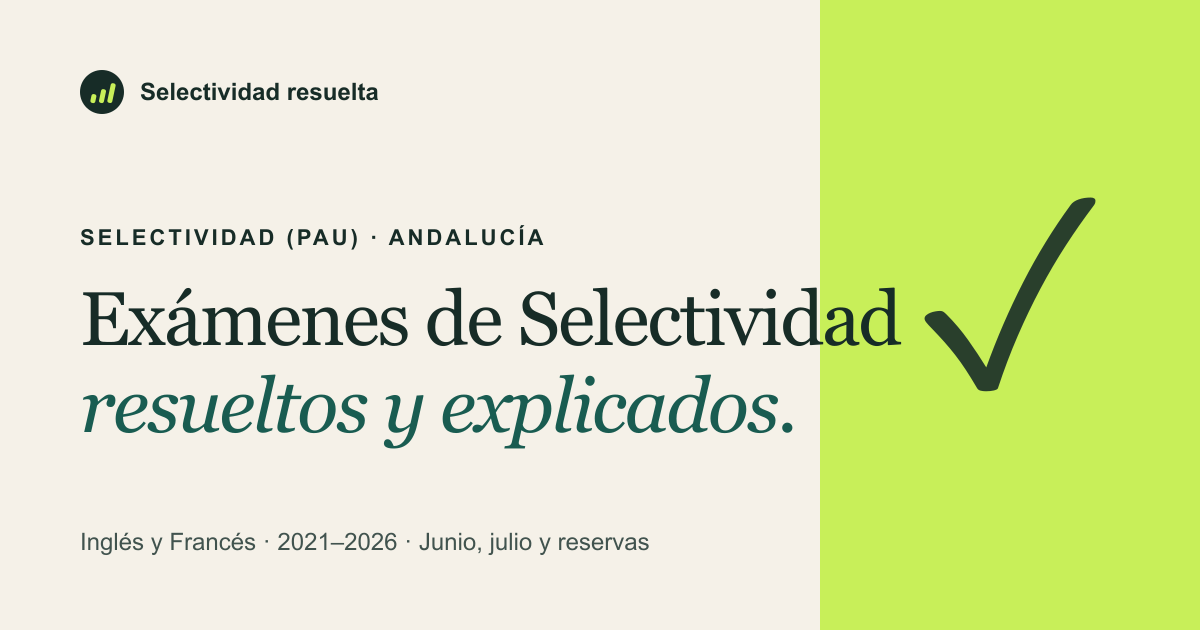
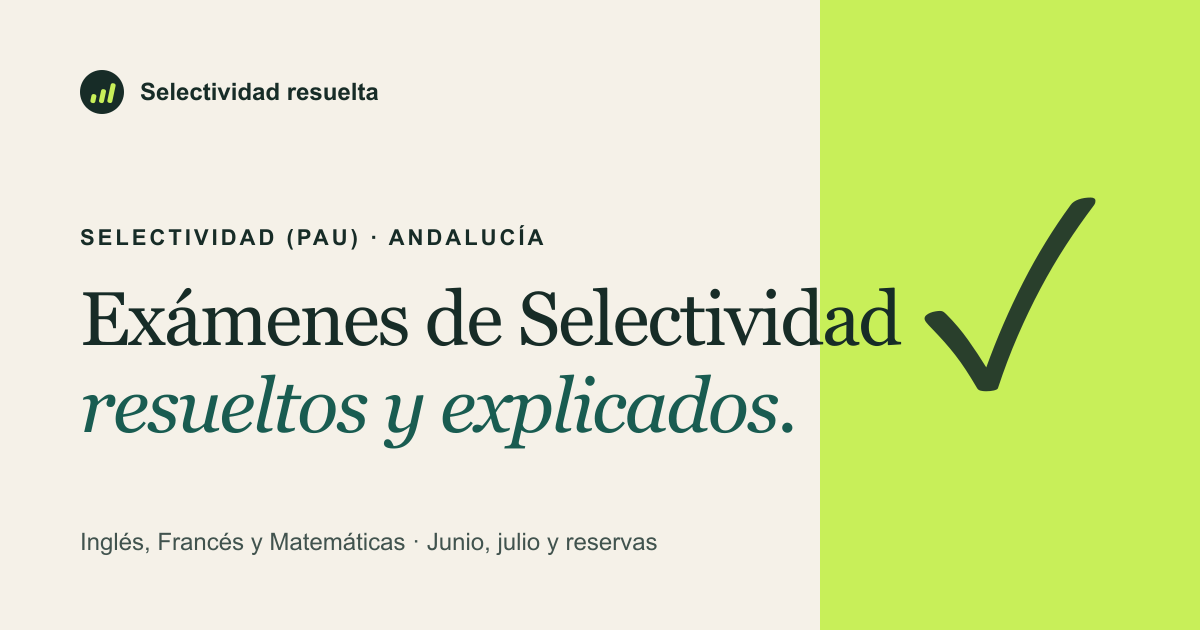
Publica Matemáticas aplicadas en la web
- Activa la asignatura (indexable, desde 2024) con su texto de
  presentación y un nombre corto, "Matemáticas CCSS", para los title y
  las descripciones.
- Portada: tarjeta 03, textos, pregunta frecuente y últimos exámenes y
  archivo con todas las asignaturas; enlace en el menú.
- Las plantillas eligen un title o una descripción más corta cuando no
  caben, y la página de cada asignatura empieza en su primer curso.
- Imagen OG de Matemáticas y pie de la de portada.
- Estilos de las soluciones (fórmulas, tablas, figuras, bloques) y
  arreglos del pie y de la firma en las páginas de tema.
- "Sobre el autor" incluye Matemáticas.

Changed region(s): [[0.1233, 0.8444, 0.555, 0.8746]]

diff --git a/src/styles/global.css b/src/styles/global.css
@@ -180,6 +180,13 @@
   font-weight: 600;
 }
 
+/* Con cinco enlaces, el menú se aprieta antes de pasar al menú móvil. */
+@media (max-width: 1100px) {
+  .desktop-nav {
+    gap: 20px;
+  }
+}
+
 .desktop-nav a {
   position: relative;
 }
@@ -588,7 +595,7 @@
 
 .subject-grid {
   display: grid;
-  grid-template-columns: repeat(2, minmax(0, 1fr));
+  grid-template-columns: repeat(3, minmax(0, 1fr));
   gap: 18px;
 }
 
@@ -998,10 +1005,12 @@ footer {
 }
 
 .footer-inner {
-  min-height: 120px;
   display: grid;
-  grid-template-columns: 1fr auto 1fr;
+  grid-template-columns: auto 1fr auto;
+  /* Fila del logo, la navegación y el copyright, centrada en su propia altura; debajo, la legal. */
+  grid-template-rows: minmax(110px, auto) auto;
   align-items: center;
+  column-gap: 32px;
 }
 
 .footer-inner .logo-mark {
@@ -1016,6 +1025,8 @@ footer {
 
 .footer-inner > p:last-of-type {
   justify-self: end;
+  max-width: 190px;
+  text-align: right;
 }
 
 /* Enlaces legales: una fila propia bajo el logo, la navegación y el copyright. */
@@ -1111,6 +1122,12 @@ footer {
 
   .subject-grid {
     grid-template-columns: repeat(2, minmax(0, 1fr));
+  }
+
+  /* Con un número impar de asignaturas, la última ocupa la fila entera. */
+  .subject-card:last-child:nth-child(odd) {
+    grid-column: 1 / -1;
+    min-height: 380px;
   }
 
   .method-grid,
@@ -1223,6 +1240,7 @@ footer {
 
   .footer-inner {
     grid-template-columns: 1fr;
+    grid-template-rows: none;
     gap: 20px;
     padding-block: 32px;
   }
@@ -1234,6 +1252,8 @@ footer {
 
   .footer-inner > p:last-of-type {
     justify-self: start;
+    max-width: none;
+    text-align: left;
   }
 
   .footer-legal {
@@ -1935,6 +1955,11 @@ footer {
   font-weight: 600;
 }
 
+/* Sin entradilla (temas sin intro), la firma va directamente bajo el título. */
+.exam-hero h1 + .exam-updated {
+  margin-top: 28px;
+}
+
 .exam-updated a {
   color: inherit;
   text-decoration: underline;
@@ -2351,6 +2376,38 @@ footer {
   content: "";
   display: table;
   clear: both;
+}
+
+/* Formato "matematicas": rótulo de cada ejercicio y apartados a), b)… sangrados. */
+.official-statement--matematicas .official-block {
+  margin: 30px 0 10px;
+}
+
+.official-statement--matematicas .official-block:first-child {
+  margin-top: 0;
+}
+
+/* Rótulo de bloque recuadrado y centrado (curso 2024-2025: BLOQUE A, B, C y D). */
+.official-statement--matematicas .math-bloque {
+  font-weight: 700;
+  text-align: center;
+}
+
+.official-statement--matematicas .math-bloque span {
+  padding: 0 4px;
+  border: 1px solid #111;
+}
+
+.official-statement--matematicas .math-bloque + .official-block {
+  margin-top: 8px;
+}
+
+.official-statement--matematicas .math-sub {
+  padding-left: 22px;
+}
+
+.official-statement--matematicas .math-sub-2 {
+  padding-left: 40px;
 }
 
 /* Cabecera con serifa (curso 2020-2021). */
@@ -2892,6 +2949,52 @@ footer {
   font-weight: 700;
   letter-spacing: 0.1em;
   text-transform: uppercase;
+}
+
+/* Las fórmulas largas de las soluciones se desplazan en horizontal en el móvil. */
+.official-statement .solution .katex-display {
+  margin: 10px 0;
+  overflow-x: auto;
+  overflow-y: hidden;
+  padding: 2px 0;
+}
+
+.official-statement .solution ul {
+  margin: 0 0 8px;
+  padding-left: 20px;
+  list-style: disc;
+}
+
+.official-statement .solution li + li {
+  margin-top: 2px;
+}
+
+.official-statement .solution table {
+  margin: 4px 0 10px;
+  border-collapse: collapse;
+  font-size: 14px;
+}
+
+.official-statement .solution th,
+.official-statement .solution td {
+  padding: 4px 12px;
+  border: 1px solid rgba(23, 44, 39, 0.2);
+  text-align: center;
+}
+
+.official-statement .solution th {
+  font-weight: 700;
+}
+
+.solution-figure {
+  max-width: 420px;
+  margin: 12px auto;
+}
+
+.solution-figure svg {
+  display: block;
+  width: 100%;
+  height: auto;
 }
 
 .official-statement .solution blockquote {

diff --git a/src/data/asignaturas.ts b/src/data/asignaturas.ts
@@ -15,6 +15,14 @@ export interface Asignatura {
   intro?: string
   // Qué incluye cada examen resuelto, para la meta descripción (ajustado a 140-160 caracteres).
   resuelto?: string
+  // Primer curso con exámenes, si la asignatura empieza después de primerAnio.
+  desde?: number
+  // Nombre para los title y las meta descripciones, si el nombre completo no cabe.
+  nombreCorto?: string
+}
+
+export function nombreSeo(asignatura: Asignatura) {
+  return asignatura.nombreCorto ?? asignatura.nombre
 }
 
 type DatosTema = string | Omit<Tema, "slug">
@@ -85,6 +93,28 @@ export const asignaturas: Asignatura[] = [
         intro:
           "La compétence linguistique vale 2 puntos: se eligen 4 transformaciones entre las propuestas (pronombres, tiempos verbales, voz activa y pasiva, negación, participio presente…). Cada respuesta explica en español la regla que se aplica.",
       },
+    ]),
+  },
+  {
+    slug: "matematicas-aplicadas",
+    nombre: "Matemáticas aplicadas",
+    titulo: "Matemáticas aplicadas.",
+    simbolo: "graph",
+    color: "math",
+    indexable: true,
+    desde: 2024,
+    nombreCorto: "Matemáticas CCSS",
+    intro:
+      "El examen de Matemáticas Aplicadas a las Ciencias Sociales II de la PAU de Andalucía dura 1 hora y 30 minutos. Desde 2026 tiene cuatro ejercicios: álgebra o programación lineal (3 puntos), funciones (3 puntos) y dos de probabilidad y estadística (2 puntos cada uno), con dos opciones, A) y B), en algunos de ellos. En 2024 y 2025 eran cuatro bloques y se elegía un ejercicio de 2.5 puntos en cada uno. Aquí tienes todas las convocatorias resueltas paso a paso, con las gráficas y siguiendo los criterios oficiales de corrección.",
+    resuelto: "todos los ejercicios paso a paso y justificados",
+    temas: temas([
+      "Matrices y determinantes",
+      "Sistemas de ecuaciones lineales",
+      "Programación lineal",
+      "Funciones",
+      "Probabilidad",
+      "Distribución binomial",
+      "Inferencia estadística",
     ]),
   },
 ]
